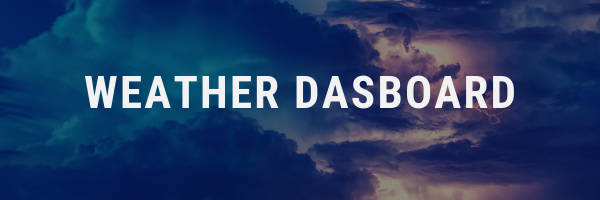
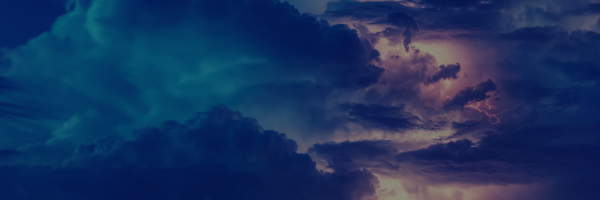
set header and title

Changed region(s): [[0.12, 0.36, 0.87, 0.54]]

diff --git a/index.html b/index.html
@@ -18,7 +18,12 @@
 
     <header>
         <div class="row">
-            <img src="/Assets/Images/WD Header.png" alt="Weather Dashboard"></img>
+            <div class="container">
+                <img src="./Assets/Images/header.png" alt="Weather Dashboard" style="width: 100%; height: 175px;"></img>
+                <div class="centered">
+                    <h1>WEATHER DASHBOARD</h1>
+                </div>
+            </div>
         </div>
     </header>
     <div class="row">
@@ -31,7 +36,7 @@
                 </button>
             </div>
             <div class="row">
-                <div id="searchHistory" class="collection">
+                <div id="searchHistory">
                 </div>
             </div>
         </div>

diff --git a/style.css b/style.css
@@ -13,3 +13,15 @@ background-color: yellow;
 .high {
     background-color: red;
 }
+
+.centered{
+    position: absolute;
+    top: 50%;
+    left: 50%;
+    transform: translate(-50%, -50%);
+}
+.container {
+    position: relative;
+    text-align: center;
+    color: white;
+}
